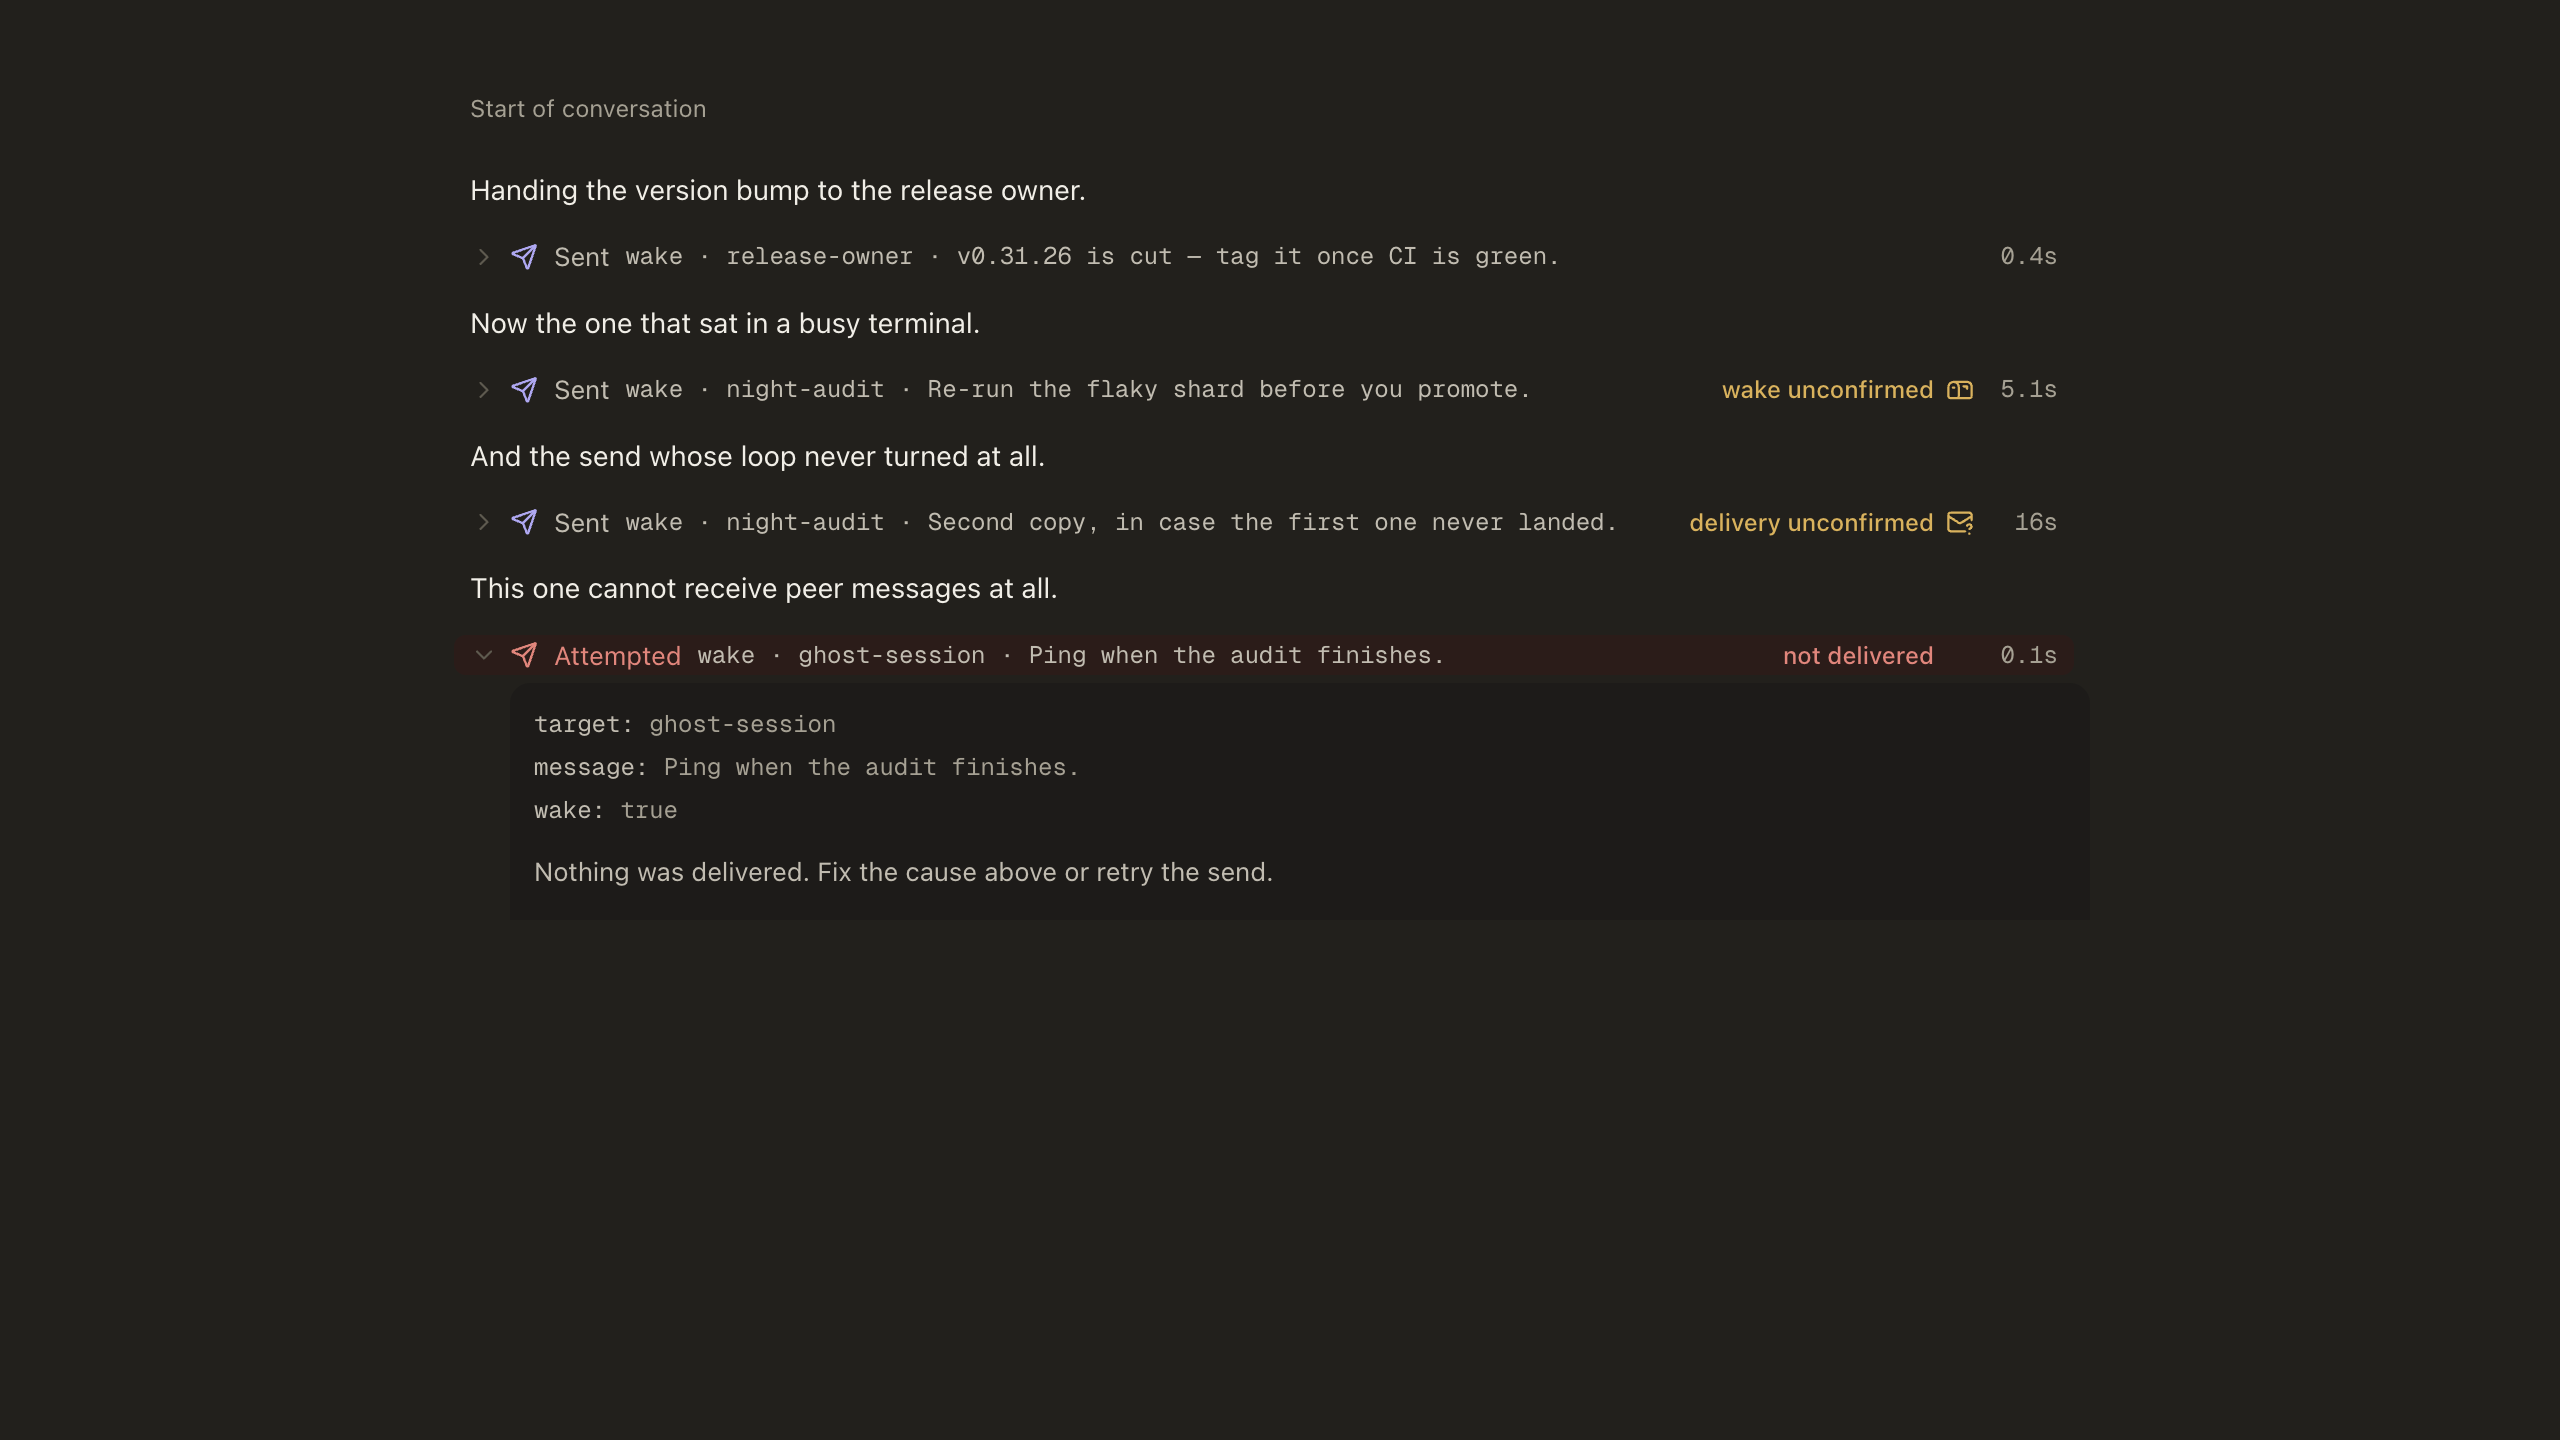
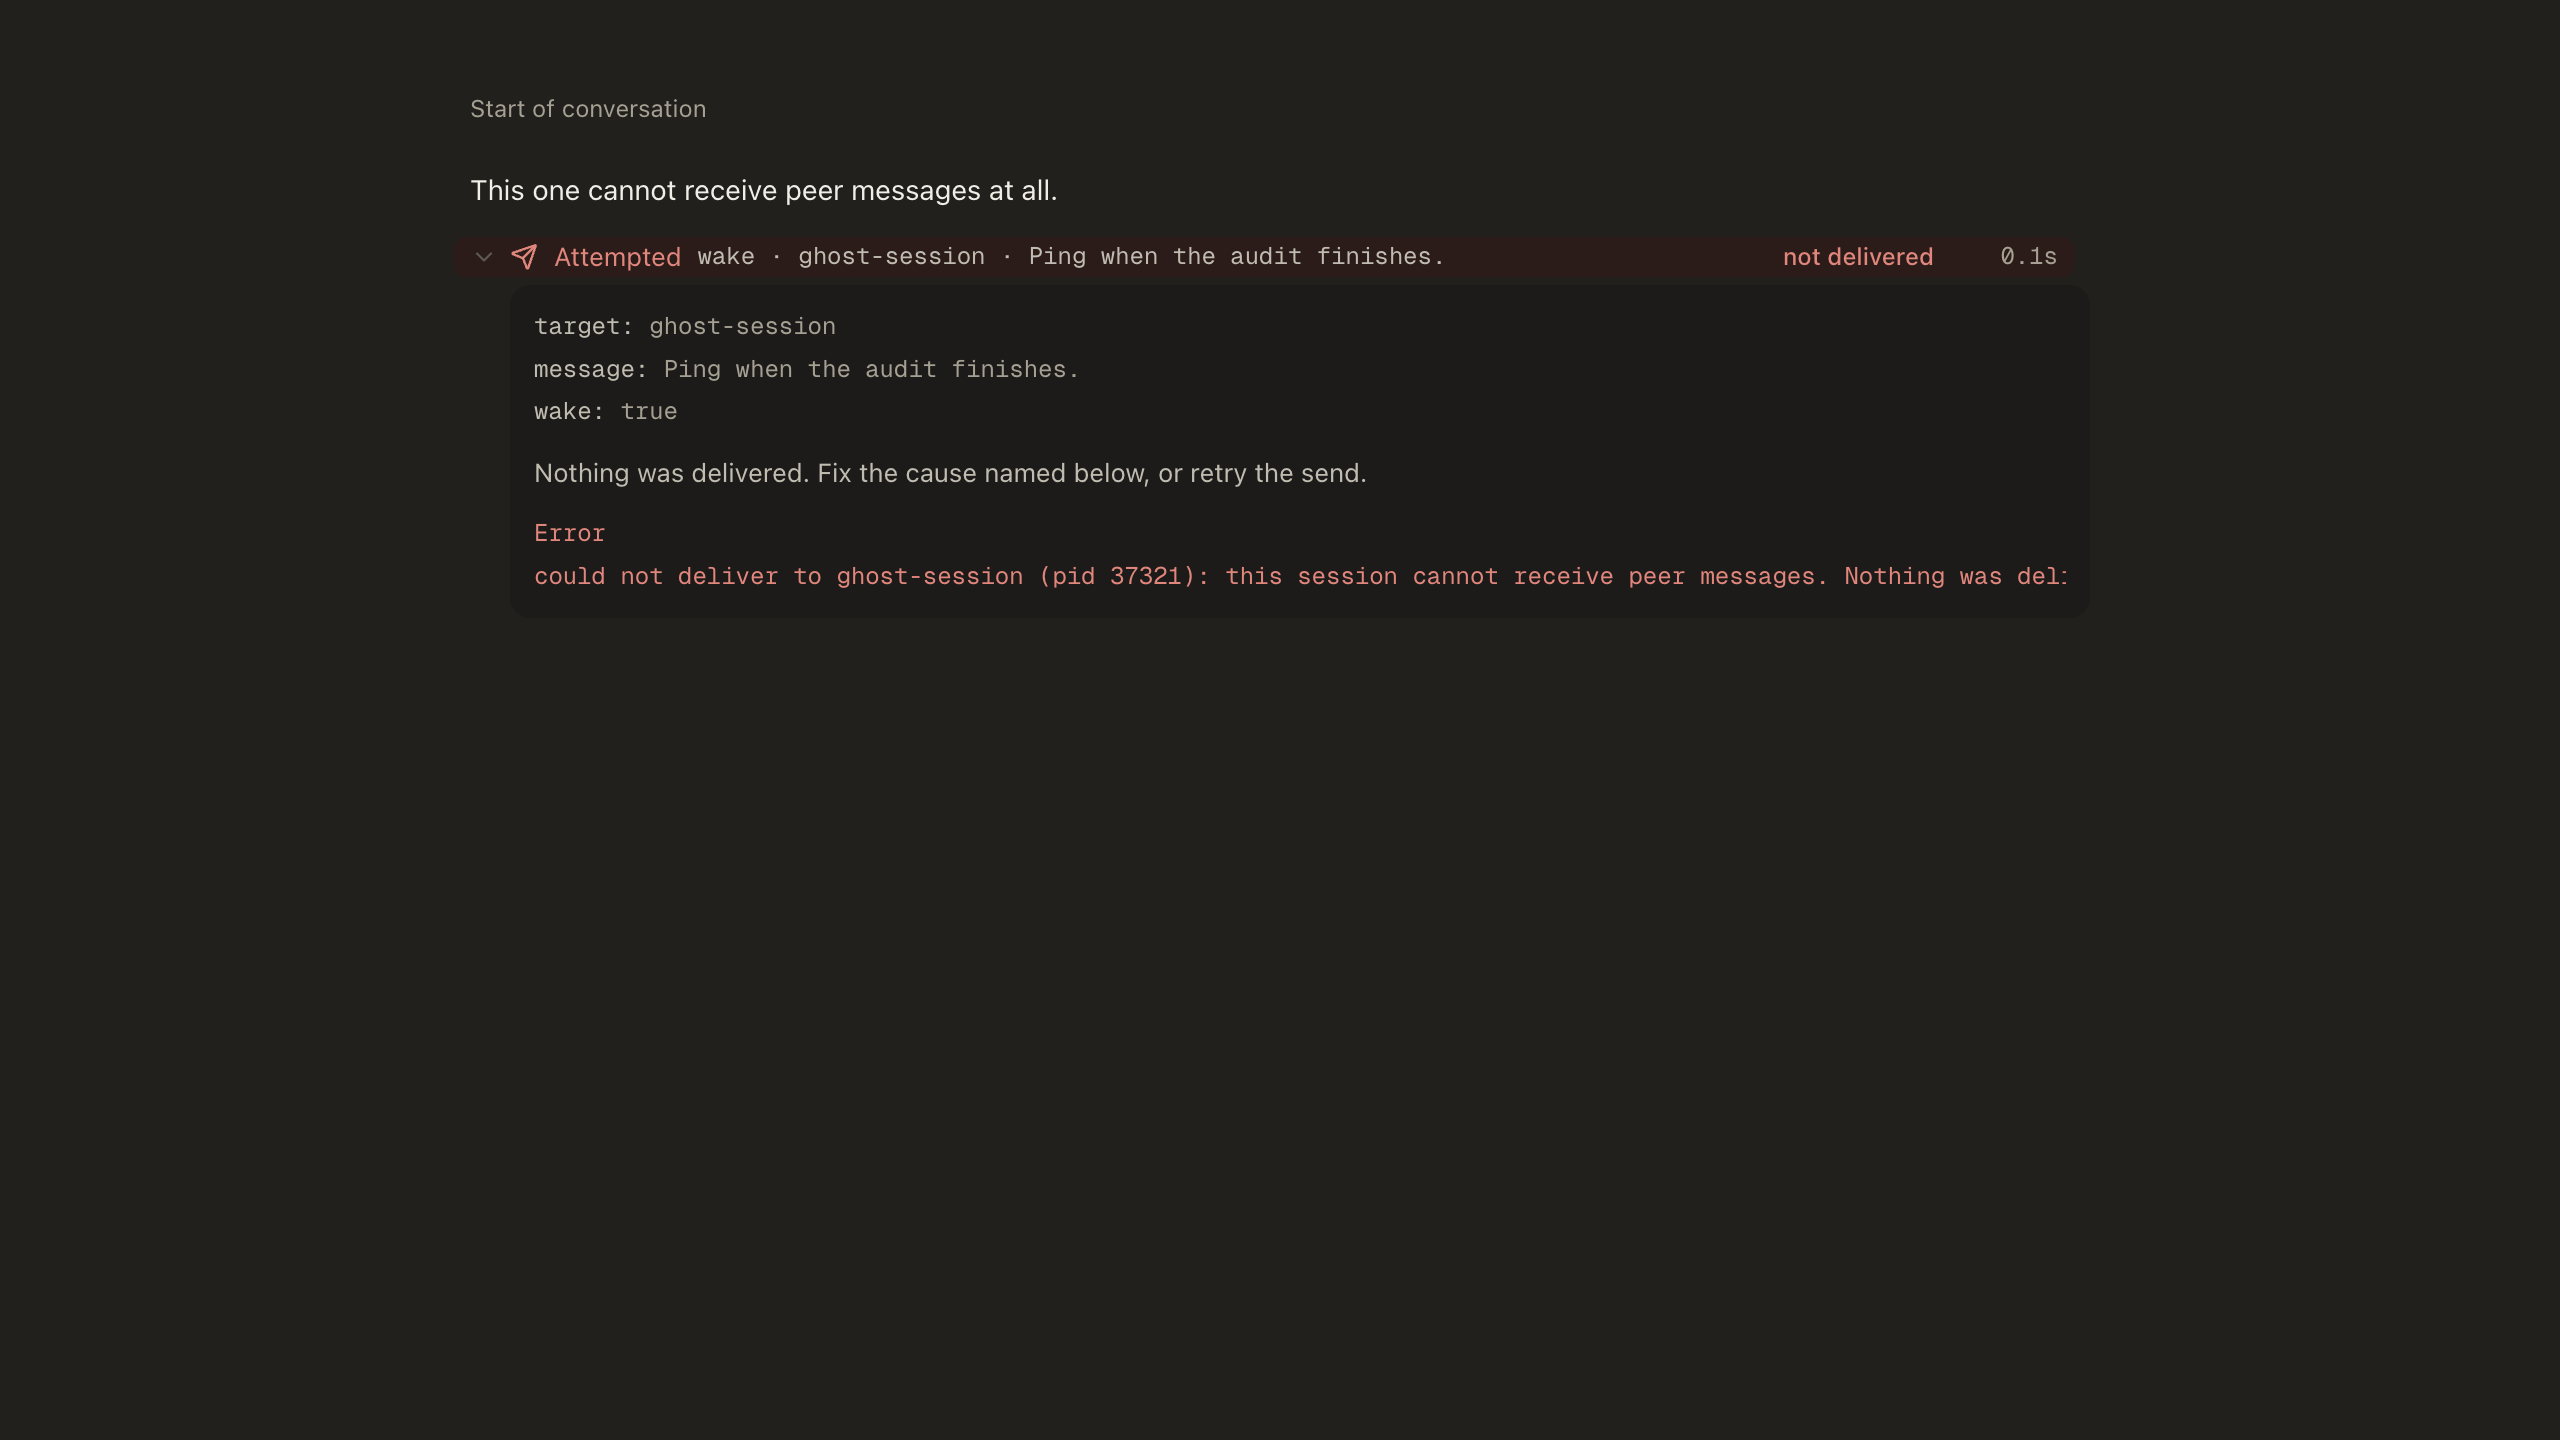
docs(evidence): re-shoot the refusal and 320px frames at the convergence head
The refusal frame now contains the Error block it is cited for (design
D1) and the 320px frame contains every row (QA Q1, the duration sheds
where the state word already does). The README records the true capture
geometry (1280x720 CSS at DPR 2, QA Q5), the round-2 re-shoot set, the
320px floor and the core PR #1855 join.

diff --git a/evidence/send-wake-card-states-0930/README.md b/evidence/send-wake-card-states-0930/README.md
@@ -16,7 +16,7 @@ a hand-built row with the same class names.
 | `after-collapsed-dark.png` | `SendDeliveries` | Four states in one column: `delivered` silent at 0.4s, `mailbox` amber `wake unconfirmed` + mailbox mark at 5.1s, `unconfirmed` amber `delivery unconfirmed` + question-mark message mark at 16s, `failed` `Attempted … not delivered` on the danger wash at 0.1s |
 | `after-open-mailbox-dark.png` | `SendDeliveriesOpen` | The incident's own expansion: the WRAPPING reader-facing sentence above the machine result, which is where the actionable half now lives |
 | `after-open-unconfirmed-dark.png` | `SendDeliveriesUnconfirmedOpen` | The retry-exhausted state's expansion: "Not confirmed: there was no answer and the message is not in their transcript. It may still arrive, so check before resending." |
-| `after-failure-expanded-dark.png` | `SendDeliveriesFailureOpen` | The refusal expanded: the danger pathway kept, the only state whose result renders as an `Error` block |
+| `after-failure-expanded-dark.png` | `SendDeliveriesFailureOpen` | The refusal expanded in its own prose: the danger pathway kept, and the frame now CONTAINS the `Error` block it is cited for (the label and the cause line, with the peer pid) — it was clipped until round 2's D1 |
 | `after-narrow-dark.png` | `SendDeliveriesNarrow` (390px) | The word whole (`wake unconfirmed`, `delivery unconfirmed`) and the summary truncating first |
 | `after-too-narrow-dark.png` | `SendDeliveriesTooNarrow` (320px) | BELOW the fit width: the amber pair sheds the WORD and keeps its mark, while the refusal keeps `not delivered` (it has no mark, so shedding it would leave the wash alone saying the call failed) |
 | `after-collapsed-light.png` | `SendDeliveriesLight` | The same four rows under `localOperatorLight` |
@@ -49,7 +49,10 @@ http://localhost:6139/iframe.html?id=chat-tool-rows--send-deliveries&viewMode=st
 
 The tab was closed and the Storybook process group reaped by exact pid when the
 capture finished; no browser was installed and no second rig was launched. Frames
-are the tab's own viewport at 1024x576 logical (2560x1440 device pixels).
+are the tab's own layout viewport at 1280x720 CSS with DPR 2 (a 2560x1440
+raster) — measured by QA round 2 (Q5): the same story rendered at 1024x576
+lands 1.25x larger and offset, while 1280x720@2 matches the frame's ink bbox
+to 1px.
 
 ## The width rule, measured rather than asserted
 
@@ -63,14 +66,30 @@ records for the chat measure). The behaviour was read off the rendered frames:
 | 320px | `SendDeliveriesTooNarrow` | **no** | yes | yes (`delivery unconfirmed — it may still arrive, so check before resending`) |
 | any | `failed` row | yes, always | n/a | the drawn word is the announcement |
 
+## Which frames were re-shot for round 2
+
+The convergence commit changes two things that are in the pixels: the refusal's
+own sentence (now "Fix the cause named below") and the trailing duration, which
+sheds below the container width the state word already sheds at. So
+`after-failure-expanded-dark.png` and `after-too-narrow-dark.png` were re-shot at
+that head; the other six are unchanged in fact as well as in the diff — the
+duration is drawn at every width those frames use (their rows are 21.4rem and
+wider), and no other frame renders a delivery note.
+
 ## What these frames do NOT prove
 
 - They are **fixtures**, not a live incident. The result strings are the ones core
   builds for each state; the durations are the ones the design measured. The
   backend half (the retry, the disk probe, the classification) lives in
-  `damianvtran/local-operator` and is not exercised here — no PR for it exists yet.
+  `damianvtran/local-operator` **#1855** (open, head `d50bccfd53`) and is not
+  exercised here; that PR also aligns the TUI's own state words to
+  `delivery unconfirmed` / `not delivered` in its remediation.
 - They say nothing about the TUI's own frames; the TUI half of the vocabulary is a
   separate surface.
+- The 320px frame contains every row in its box (QA round 2, Q1), but the refusal
+  is at its floor there: its summary truncates to a single character, because the
+  frozen word and the verb are what the row will not give up. Below 320px the
+  refusal's own fixed parts reach the box edge again.
 - They are not a contrast measurement. The floors are asserted by
   `scripts/contrast-contract.mjs` (`warning` as text on every ground, plus the
   `warning`/`rowHover` row this PR adds).
